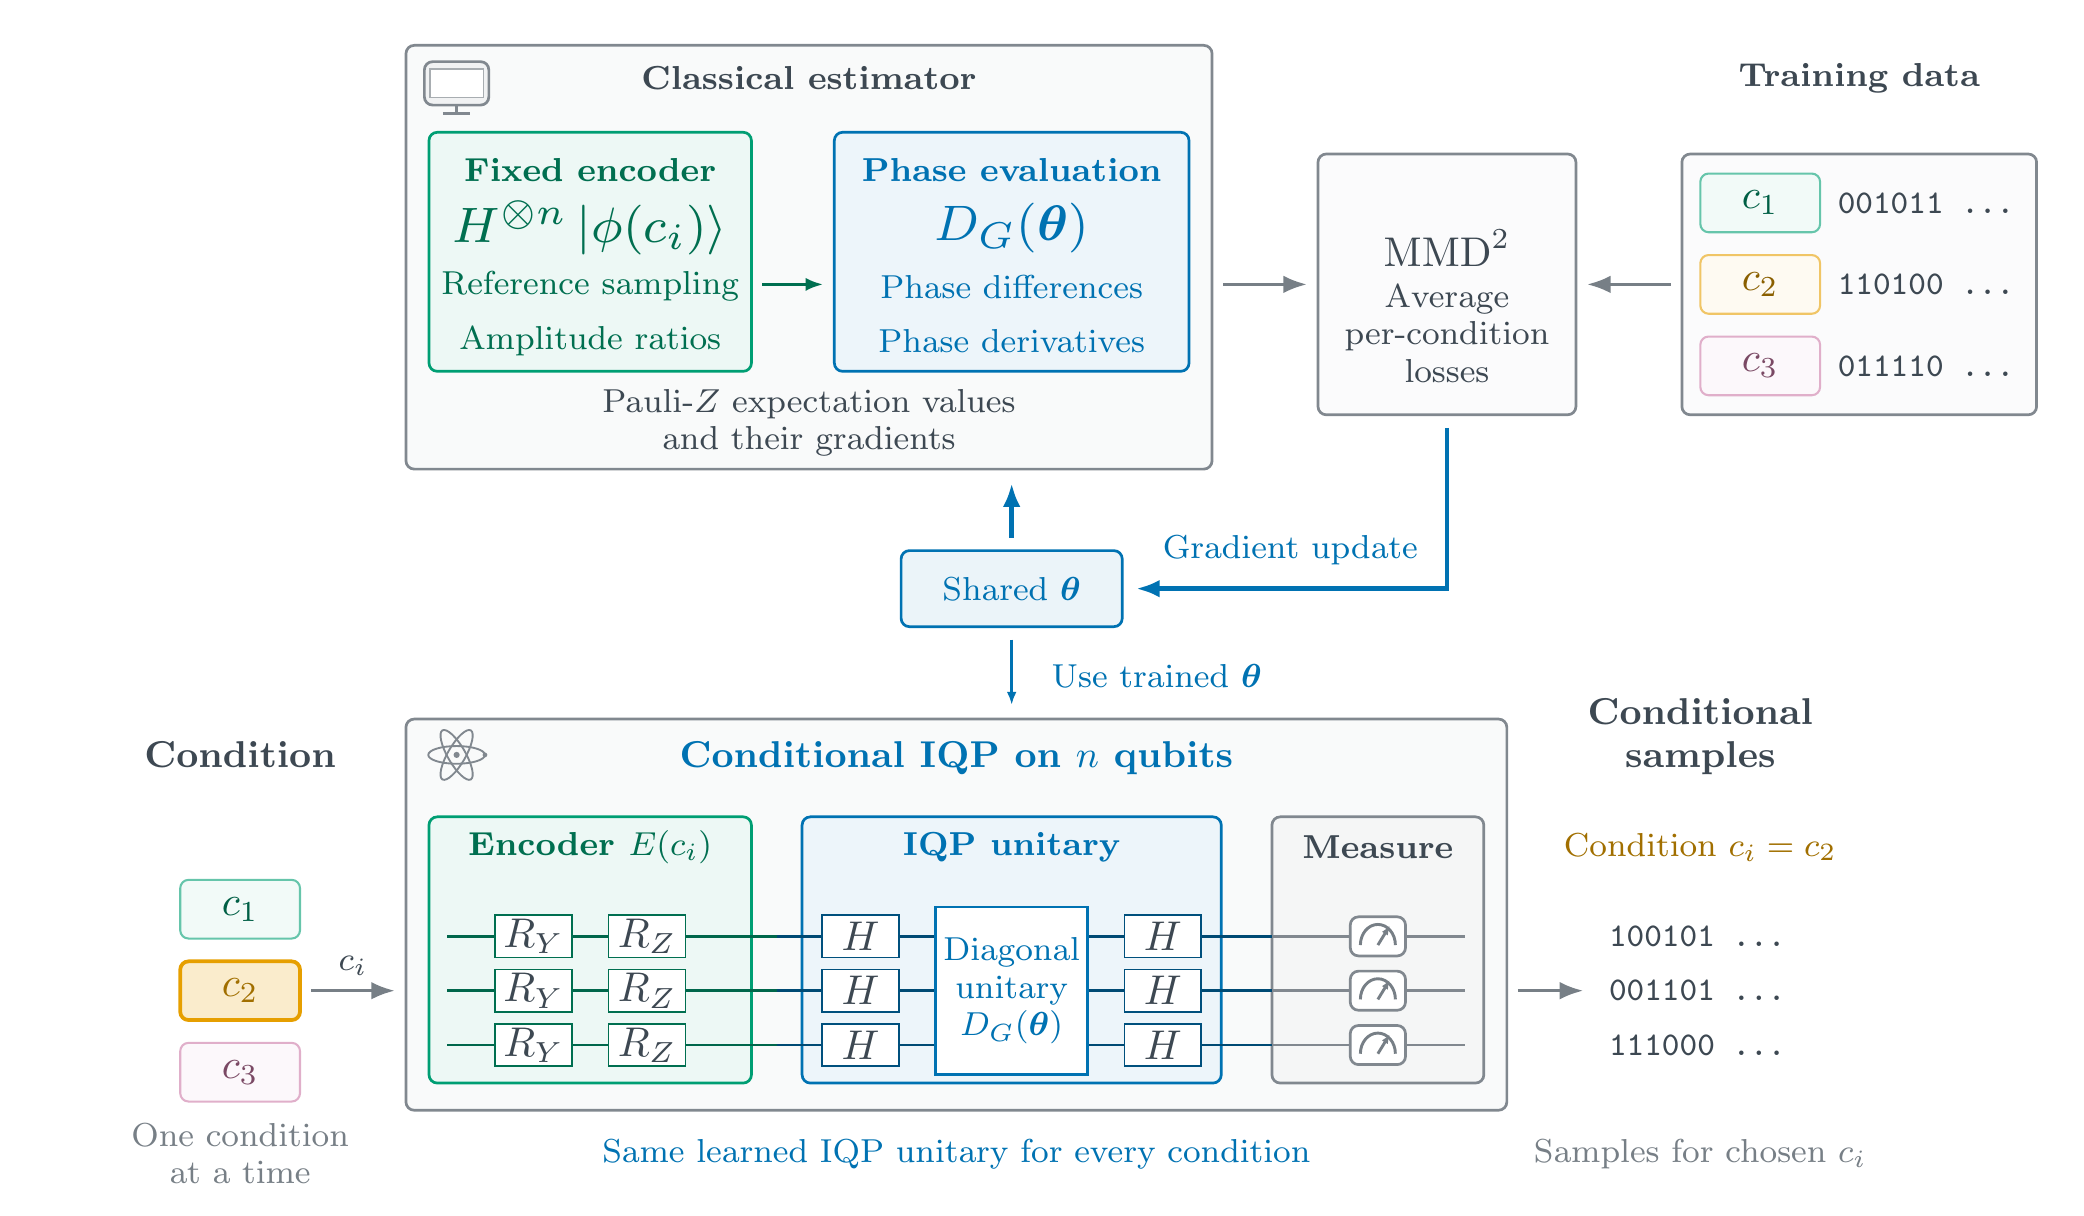
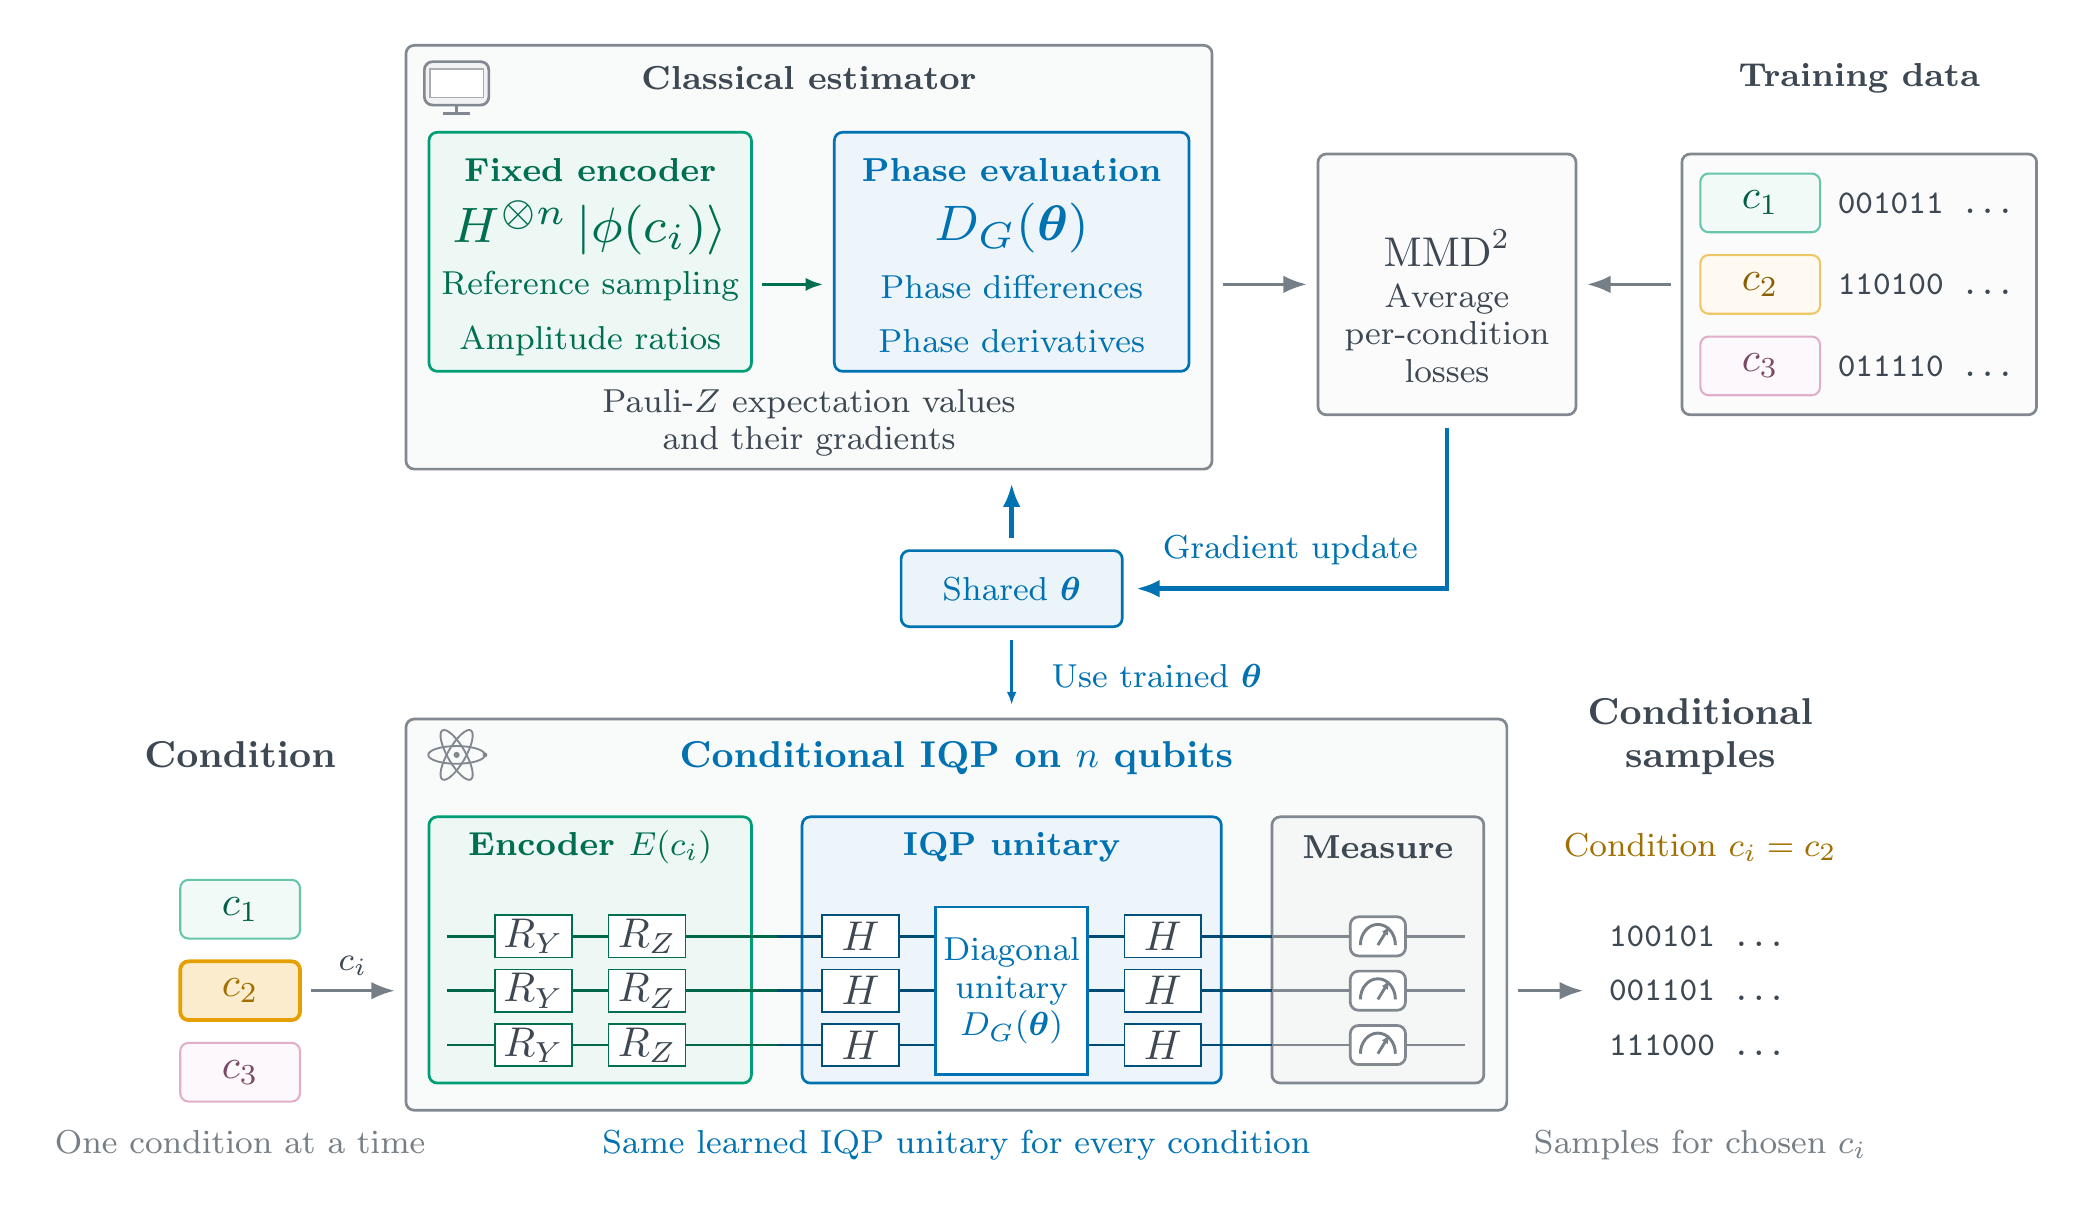
Align Figure 1 footer labels on one baseline

Changed region(s): [[0.2807, 0.9375, 0.6238, 0.9688], [0.0312, 0.9062, 0.1871, 0.9688], [0.7174, 0.9375, 0.9045, 0.9688]]

diff --git a/paper/figure_sources/conditional_iqp_overview.tex b/paper/figure_sources/conditional_iqp_overview.tex
@@ -86,7 +86,7 @@
 \draw[draw=condtwo,fill=condtwo!20,line width=.9pt,rounded corners=2pt]
   (1.65,.93) rectangle (2.95,1.47);
 \node[font=\fontsize{10}{11}\selectfont,text=condtwo!70!black] at (2.3,1.20) {$c_2$};
-\node[small,text=ink!70] at (2.3,-.30) {One condition\\at a time};
+\node[small,text=ink!70,anchor=base] at (2.3,-.30) {One condition at a time};
 \draw[flow] (3.07,1.20) -- node[above,small] {$c_i$} (3.98,1.20);
 
 \draw[outline,draw=ink!65,fill=ink!3] (4.1,.1) rectangle (16.05,3.70);
@@ -123,7 +123,7 @@
 }
 \draw[draw=modelblue,fill=white,line width=.6pt] (9.85,.43) rectangle (11.5,1.97);
 \node[font=\fontsize{8}{9}\selectfont,align=center,text=modelblue] at (10.675,1.20) {Diagonal\\unitary\\$D_G(\boldsymbol\theta)$};
-\node[small,text=modelblue] at (10.075,-.30) {Same learned IQP unitary for every condition};
+\node[small,text=modelblue,anchor=base] at (10.075,-.30) {Same learned IQP unitary for every condition};
 \foreach \yy in {1.70,1.20,.70} {
   \draw[outline,draw=ink!65,fill=white] (14.35,\yy-.18) rectangle (14.95,\yy+.18);
   \draw[ink!70,line width=.7pt] (14.46,\yy-.08) arc[start angle=180,end angle=0,radius=.19];
@@ -137,6 +137,6 @@
 \node[font=\fontsize{8}{9}\selectfont\ttfamily,anchor=west] at (17.0,1.70) {100101 ...};
 \node[font=\fontsize{8}{9}\selectfont\ttfamily,anchor=west] at (17.0,1.20) {001101 ...};
 \node[font=\fontsize{8}{9}\selectfont\ttfamily,anchor=west] at (17.0,.70) {111000 ...};
-\node[small,text=ink!70] at (18.15,-.30) {Samples for chosen $c_i$};
+\node[small,text=ink!70,anchor=base] at (18.15,-.30) {Samples for chosen $c_i$};
 \end{tikzpicture}
 \end{document}
